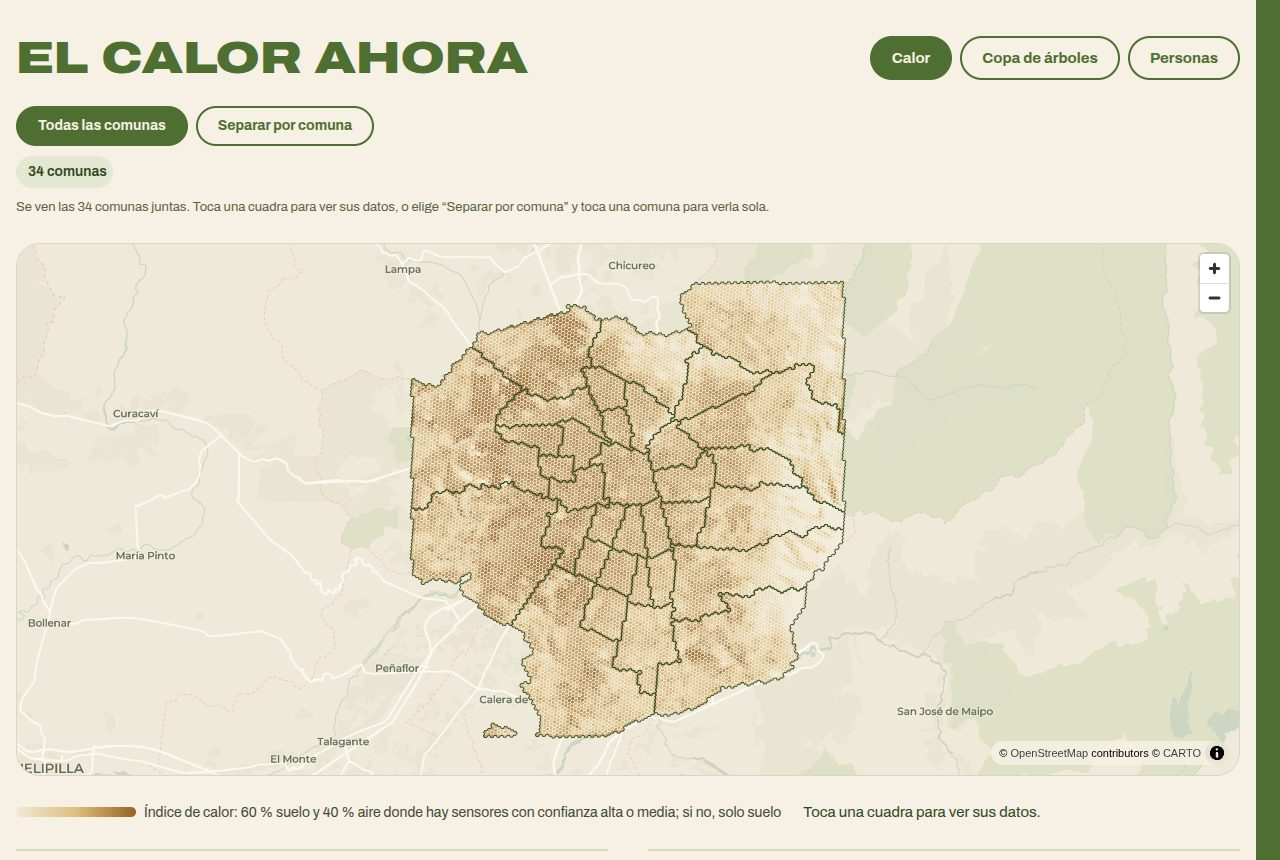
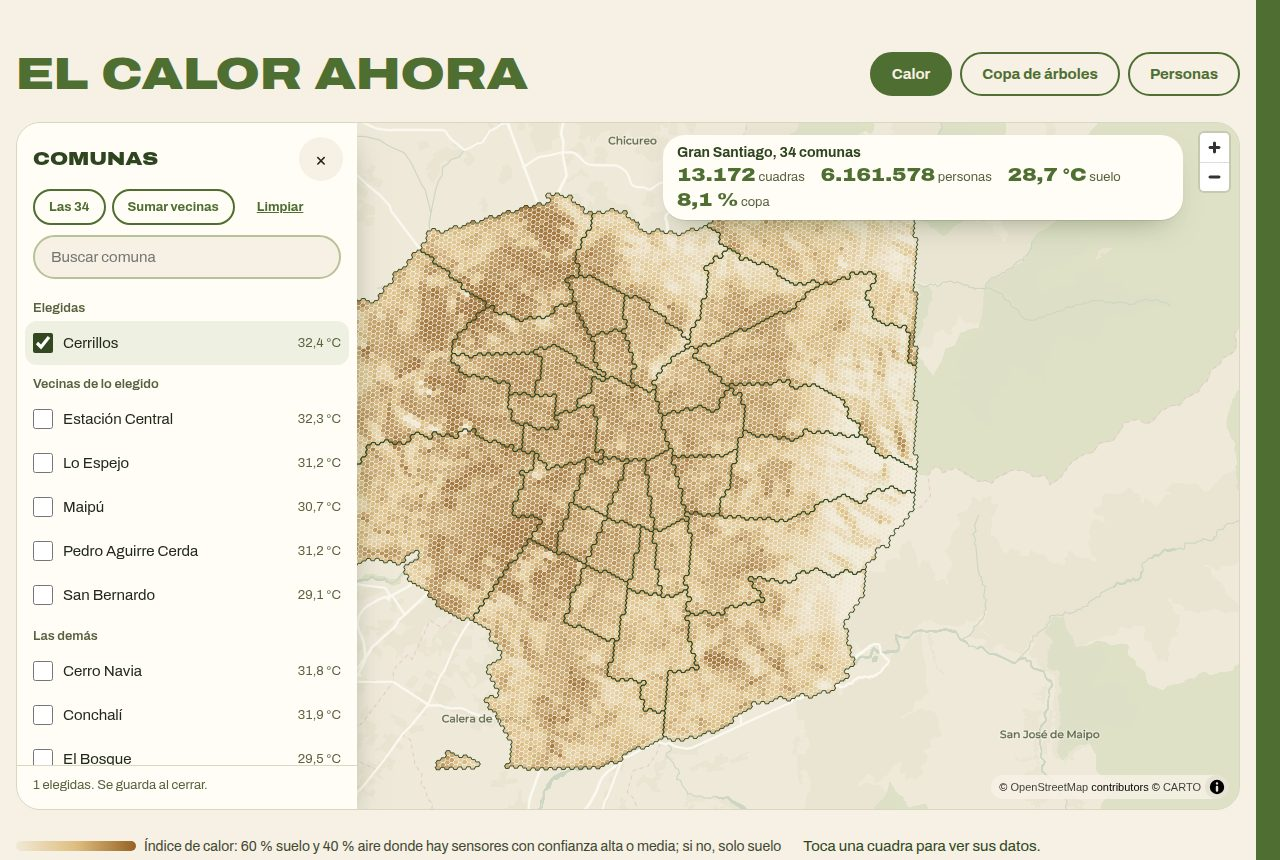
Filtro de comunas en cajon sobre cada mapa (opcion 3)
Un boton "Comunas" flota sobre el mapa y abre una lista lateral con las elegidas, sus
vecinas y las demas, con buscador, "Las 34", "Sumar vecinas" y "Limpiar"; se guarda al
cerrar. Lo elegido va a color, las vecinas tenues y el resto apagado, con un resumen chico
arriba a la derecha (cuadras, personas, suelo, copa). Mapas mas altos. Un area vacia se
abre con las 34, como mapa.html.

diff --git a/web/components/Pagina.tsx b/web/components/Pagina.tsx
@@ -4,6 +4,7 @@ import type { ExpressionSpecification, LngLatBoundsLike } from "maplibre-gl";
 import { cellToBoundary } from "h3-js";
 import MapaHex, { type Capa } from "./MapaHex";
 import Cifra from "./Cifra";
+import FiltroComunas from "./FiltroComunas";
 import { formato, useRevela, useVisible } from "./movimiento";
 import { historico, useTerreno, type Captura, type Estado, type InfoComunas } from "@/lib/terreno";
 
@@ -139,9 +140,8 @@ function Secciones({ info, estado, cambiar, ocupado, error, serie }: PropsSeccio
   const H = estado.hex;
   const sel = estado.seleccion;
   const todas = sel.length === info.comunas.length;
-  const [modo, setModo] = useState<"todas" | "comuna">(todas ? "todas" : "comuna");
-  const ultimaPorComuna = useRef<string[]>([]);
-  useEffect(() => { if (modo === "comuna" && sel.length && !todas) ultimaPorComuna.current = sel; }, [modo, sel, todas]);
+  // Un área vacía no tiene cuadras: como mapa.html, se abre con las 34.
+  useEffect(() => { if (!sel.length && !ocupado) cambiar({ comunas: info.comunas, distritos: [], zona: null }); }, [sel.length]); // eslint-disable-line react-hooks/exhaustive-deps
 
   // Polígonos de los hexágonos del área: los arma h3-js y se guardan entre áreas.
   const cache = useRef(new Map<string, number[][]>());
@@ -169,21 +169,22 @@ function Secciones({ info, estado, cambiar, ocupado, error, serie }: PropsSeccio
     type: "FeatureCollection",
     features: info.comunas.map((c) => ({
       type: "Feature",
-      properties: { c, est: modo === "todas" ? "todas" : sel.includes(c) ? "sel" : vecinas.has(c) ? "vec" : "otra" },
+      properties: { c, est: todas ? "todas" : sel.includes(c) ? "sel" : vecinas.has(c) ? "vec" : "otra" },
       geometry: { type: "MultiPolygon", coordinates: info.geo[c].map((poly) => poly.map((anillo) => anillo.map(([la, lo]) => [lo, la]))) },
     })),
-  }), [info, sel, vecinas, modo]);
+  }), [info, sel, vecinas, todas]);
+  // Tocar una comuna en el mapa: con todas a la vista la deja sola; una vecina se suma; otra empieza de nuevo.
   function tocarComuna(c: string) {
-    if (ocupado || sel.includes(c)) return;
-    cambiar({ comunas: modo === "todas" ? [c] : vecinas.has(c) ? [...sel, c] : [c], distritos: [], zona: null });
-    if (modo === "todas") setModo("comuna");
+    if (ocupado || (sel.includes(c) && !todas)) return;
+    cambiar({ comunas: todas ? [c] : vecinas.has(c) ? [...sel, c] : [c], distritos: [], zona: null });
   }
-  function cambiarModo(m: "todas" | "comuna") {
-    if (m === modo || ocupado) return;
-    setModo(m);
-    if (m === "todas") cambiar({ comunas: info.comunas, distritos: [], zona: null });
-    else if (ultimaPorComuna.current.length) cambiar({ comunas: ultimaPorComuna.current, distritos: [], zona: null });
-  }
+  // Suelo medio por comuna para la lista del cajón; se recuerda lo visto aunque luego se filtre.
+  const sueloComuna = useRef(new Map<string, number>());
+  useMemo(() => {
+    const por: Record<string, number[]> = {};
+    H.comuna.forEach((c, i) => { if (H.lst[i] != null) (por[c] ??= []).push(H.lst[i] as number); });
+    for (const [c, v] of Object.entries(por)) sueloComuna.current.set(c, media(v));
+  }, [H]);
 
   const capturasGeo = useMemo<GeoJSON.FeatureCollection>(() => ({
     type: "FeatureCollection",
@@ -209,26 +210,7 @@ function Secciones({ info, estado, cambiar, ocupado, error, serie }: PropsSeccio
   };
   const mapaComun = { comunas: comunasGeo, capturas: capturasGeo, recorridos: recorridosGeo, popupCaptura, alComuna: tocarComuna };
 
-  const barraArea = (
-    <div className="area">
-      <div className="grupo" role="group" aria-label="Área">
-        <button type="button" className="pill" style={{ minHeight: 40, fontSize: 14 }} aria-pressed={modo === "todas"} onClick={() => cambiarModo("todas")}>Todas las comunas</button>
-        <button type="button" className="pill" style={{ minHeight: 40, fontSize: 14 }} aria-pressed={modo === "comuna"} onClick={() => cambiarModo("comuna")}>Separar por comuna</button>
-      </div>
-      <div className="chips" aria-live="polite">
-        {modo === "todas" ? <span className="chip">{sel.length} comunas</span>
-          : sel.length ? sel.map((c) => (
-            <span key={c} className="chip">{c}<button type="button" aria-label={`Quitar ${c}`} disabled={ocupado}
-              onClick={() => cambiar({ comunas: sel.filter((x) => x !== c) })}>×</button></span>))
-            : <span className="nota">Toca una comuna en el mapa.</span>}
-        {ocupado && <span className="nota">Calculando…</span>}
-      </div>
-      <p className="nota">{modo === "todas"
-        ? "Se ven las 34 comunas juntas. Toca una cuadra para ver sus datos, o elige “Separar por comuna” y toca una comuna para verla sola."
-        : "Toca una comuna vecina (borde punteado) para sumarla, u otra para empezar ahí. El área es la misma en todo el mapa de la página."}</p>
-      {error && <p className="aviso" role="alert">{error}</p>}
-    </div>
-  );
+  const filtro = <FiltroComunas info={info} estado={estado} ocupado={ocupado} error={error} cambiar={cambiar} sueloComuna={sueloComuna.current} />;
 
   // ---- El calor ahora
   const [capa, setCapa] = useState("calor");
@@ -337,19 +319,18 @@ function Secciones({ info, estado, cambiar, ocupado, error, serie }: PropsSeccio
             {CAPAS_AHORA.map((c) => <button key={c.id} type="button" className="pill" aria-pressed={capa === c.id} onClick={() => setCapa(c.id)}>{NOMBRE_CAPA[c.id]}</button>)}
           </div>
         </div>
-        <div className="escalon" style={est(1)}>{barraArea}</div>
-        <div className="escalon" style={est(2)}>
+        <div className="escalon" style={est(1)}>
           <MapaHex {...mapaComun} datos={datosAhora} capas={CAPAS_AHORA} activa={capa} encuadre={encuadreArea} alElegir={setElegida}
-            etiqueta={`Mapa de ${NOMBRE_CAPA[capa].toLowerCase()} por cuadra. Toca una cuadra para ver sus datos o una comuna para elegirla.`} />
+            etiqueta={`Mapa de ${NOMBRE_CAPA[capa].toLowerCase()} por cuadra. Toca una cuadra para ver sus datos o una comuna para elegirla.`}>{filtro}</MapaHex>
         </div>
         <div className="leyenda">
           <span><i className="barra" style={{ background: LEYENDA[capa][0] }} />{LEYENDA[capa][1]}</span>
           <span className="detalle num" aria-live="polite">{det != null
             ? `${H.distrito[det]}${H.parque[det] ? ", parque" : ""}: suelo ${formato(H.lst[det] ?? 0, 1)} °C${H.vivo[det] != null ? `, aire ${formato(H.vivo[det] as number, 1)} °C` : ""}, copa ${formato(H.copa[det] ?? 0, 1)} %, ${formato(H.pob[det])} personas, urgencia ${formato(H.u[det] ?? 0, 3)}.`
             : "Toca una cuadra para ver sus datos."}</span>
-          {det != null && modo === "todas" && (
+          {det != null && todas && (
             <button type="button" className="pill" style={{ minHeight: 36, fontSize: 14 }} disabled={ocupado}
-              onClick={() => { setModo("comuna"); cambiar({ comunas: [H.comuna[det]], distritos: [], zona: null }); }}>Ver solo {H.comuna[det]}</button>
+              onClick={() => cambiar({ comunas: [H.comuna[det]], distritos: [], zona: null })}>Ver solo {H.comuna[det]}</button>
           )}
         </div>
         <div className="resumen">
@@ -371,7 +352,7 @@ function Secciones({ info, estado, cambiar, ocupado, error, serie }: PropsSeccio
               <ol>
                 {resumen.slice(0, 6).map(([c, v]) => (
                   <li key={c}>
-                    <button type="button" disabled={ocupado} onClick={() => { setModo("comuna"); cambiar({ comunas: [c], distritos: [], zona: null }); }}>
+                    <button type="button" disabled={ocupado} onClick={() => cambiar({ comunas: [c], distritos: [], zona: null })}>
                       <span>{c}</span><span className="num">{formato(v, 1)} °C</span>
                       <i style={{ width: `${(100 * (v - 25)) / (resumen[0][1] - 25)}%` }} />
                     </button>
@@ -386,7 +367,6 @@ function Secciones({ info, estado, cambiar, ocupado, error, serie }: PropsSeccio
 
       <Seccion id="planificar">
         <div className="b-cab escalon"><h2>Planificar</h2><p>Mueve los pesos y el presupuesto; el corredor se traza de parque a parque por las cuadras más urgentes del área elegida.</p></div>
-        <div className="escalon" style={est(1)}>{barraArea}</div>
         <div className="b-controles escalon" style={est(2)}>
           {([["calor", "Calor (suelo y aire)"], ["arbol", "Falta de árboles"], ["pers", "Personas cerca"]] as const).map(([k, nombre]) => (
             <div className="peso" key={k}>
@@ -402,7 +382,7 @@ function Secciones({ info, estado, cambiar, ocupado, error, serie }: PropsSeccio
         <div className="b-plan">
           <div className="izq escalon" style={est(3)}>
             <MapaHex {...mapaComun} datos={datosPlan} capas={CAPAS_PLAN} activa="urg" corredor={corredor} encuadre={encuadrePlan}
-              etiqueta="Corredor propuesto sobre la urgencia de cada cuadra" />
+              etiqueta="Corredor propuesto sobre la urgencia de cada cuadra">{filtro}</MapaHex>
             {enCorredor.length > 0 && (
               <button type="button" className="pill zoom-corredor" aria-pressed={cerca} onClick={() => setCerca(!cerca)}>
                 {cerca ? (todas ? "Ver las 34 comunas" : "Ver toda el área") : "Acercar al corredor"}
@@ -468,7 +448,7 @@ function Secciones({ info, estado, cambiar, ocupado, error, serie }: PropsSeccio
         </div>
         <div className="b-hist">
           <div className="izq escalon" style={est(2)}>
-            <MapaHex {...mapaComun} datos={datosHist} capas={CAPAS_HIST} activa="hist" encuadre={encuadreArea} etiqueta="Promedio del calor del suelo por cuadra en el rango elegido" />
+            <MapaHex {...mapaComun} datos={datosHist} capas={CAPAS_HIST} activa="hist" encuadre={encuadreArea} etiqueta="Promedio del calor del suelo por cuadra en el rango elegido">{filtro}</MapaHex>
             <div className="leyenda" style={{ marginTop: 10 }}><span><i className="barra" style={{ background: grad(OCRE) }} /><span className="num">Suelo medio de {formato(escalaHist[0], 1)} °C a {formato(escalaHist[1], 1)} °C</span></span></div>
           </div>
           <div className="cifras">

diff --git a/web/components/FiltroComunas.tsx b/web/components/FiltroComunas.tsx
@@ -1,0 +1,117 @@
+"use client";
+import { useEffect, useMemo, useRef, useState } from "react";
+import type { Cambio, Estado, InfoComunas } from "@/lib/terreno";
+import { formato } from "./movimiento";
+
+// Opción 3 del filtro: un solo botón "Comunas" sobre el mapa abre un cajón lateral con las elegidas,
+// sus vecinas y las demás. Se edita un borrador y se guarda al cerrar (una sola vuelta al servidor).
+// Arriba a la derecha queda un resumen chico del área.
+const sinTilde = (s: string) => s.normalize("NFD").replace(/[̀-ͯ]/g, "").toLowerCase();
+const porNombre = (a: string, b: string) => a.localeCompare(b, "es");
+
+function vecinasDe(sel: string[], vecinas: Record<string, string[]>) {
+  const v = new Set<string>();
+  for (const c of sel) for (const x of vecinas[c] ?? []) if (!sel.includes(x)) v.add(x);
+  return [...v].sort(porNombre);
+}
+
+export default function FiltroComunas({ info, estado, ocupado, error, cambiar, sueloComuna }: {
+  info: InfoComunas;
+  estado: Estado;
+  ocupado: boolean;
+  error: string | null;
+  cambiar: (c: Cambio) => void;
+  sueloComuna: Map<string, number>;
+}) {
+  const sel = estado.seleccion;
+  const total = info.comunas.length;
+  const todas = sel.length === total;
+  const [abierto, setAbierto] = useState(false);
+  const [borrador, setBorrador] = useState<string[]>(sel);
+  const [busca, setBusca] = useState("");
+  const boton = useRef<HTMLButtonElement>(null);
+  const buscador = useRef<HTMLInputElement>(null);
+
+  function abrir() {
+    setBorrador(sel);
+    setBusca("");
+    setAbierto(true);
+  }
+  function cerrar() {
+    setAbierto(false);
+    boton.current?.focus();
+    const nuevo = borrador.length ? borrador : info.comunas;   // sin comunas elegidas se ve todo el Gran Santiago
+    const igual = nuevo.length === sel.length && nuevo.every((c) => sel.includes(c));
+    if (!igual) cambiar({ comunas: [...nuevo].sort(porNombre), distritos: [], zona: null });
+  }
+  useEffect(() => { if (abierto) setTimeout(() => buscador.current?.focus(), 50); }, [abierto]);
+
+  const vec = useMemo(() => vecinasDe(borrador, info.vecinas), [borrador, info]);
+  const q = sinTilde(busca.trim());
+  const grupos: [string, string[]][] = [
+    ["Elegidas", [...borrador].sort(porNombre)],
+    ["Vecinas de lo elegido", vec],
+    ["Las demás", info.comunas.filter((c) => !borrador.includes(c) && !vec.includes(c)).sort(porNombre)],
+  ];
+  const alternar = (c: string) => setBorrador((b) => (b.includes(c) ? b.filter((x) => x !== c) : [...b, c]));
+
+  const H = estado.hex;
+  const resumen = useMemo(() => {
+    const lst = H.lst.filter((x): x is number => x != null), copa = H.copa.filter((x): x is number => x != null);
+    const med = (xs: number[]) => (xs.length ? xs.reduce((s, x) => s + x, 0) / xs.length : 0);
+    return { cuadras: H.h.length, personas: H.pob.reduce((s, x) => s + x, 0), suelo: med(lst), copa: med(copa) };
+  }, [H]);
+
+  return (
+    <>
+      <button ref={boton} type="button" className="flota abre" aria-expanded={abierto} onClick={abierto ? cerrar : abrir}>
+        <svg width="20" height="20" viewBox="0 0 24 24" aria-hidden="true"><path d="M4 6h16M7 12h10M10 18h4" stroke="currentColor" strokeWidth="2.2" strokeLinecap="round" /></svg>
+        Comunas <span className="cuenta num">{todas ? total : sel.length}</span>
+        {ocupado && <span className="nota" style={{ fontWeight: 500 }}>Calculando…</span>}
+      </button>
+
+      <div className="flota resumen-mapa num" aria-live="polite">
+        <span className="t">{todas ? `Gran Santiago, ${total} comunas` : sel.length <= 3 ? sel.join(", ") : `${sel.length} comunas`}</span>
+        <span><b>{resumen.cuadras.toLocaleString("es-CL")}</b> cuadras</span>
+        <span><b>{resumen.personas.toLocaleString("es-CL")}</b> personas</span>
+        <span><b>{formato(resumen.suelo, 1)} °C</b> suelo</span>
+        <span><b>{formato(resumen.copa, 1)} %</b> copa</span>
+        {error && <span className="aviso" role="alert" style={{ flexBasis: "100%" }}>{error}</span>}
+      </div>
+
+      {abierto && (
+        <aside className="cajon" aria-label="Elegir comunas" onKeyDown={(e) => { if (e.key === "Escape") cerrar(); }}>
+          <header>
+            <h2>Comunas</h2>
+            <button type="button" className="cierra" aria-label="Guardar y cerrar" onClick={cerrar}>×</button>
+          </header>
+          <div className="acciones">
+            <button type="button" className="mini" aria-pressed={borrador.length === total} onClick={() => setBorrador(info.comunas)}>Las {total}</button>
+            <button type="button" className="mini" disabled={!borrador.length || !vec.length} onClick={() => setBorrador([...borrador, ...vec])}>Sumar vecinas</button>
+            <button type="button" className="mini sola" disabled={!borrador.length} onClick={() => setBorrador([])}>Limpiar</button>
+          </div>
+          <input ref={buscador} type="search" placeholder="Buscar comuna" aria-label="Buscar comuna" value={busca} onChange={(e) => setBusca(e.target.value)} />
+          <div className="lista">
+            {grupos.map(([titulo, cs]) => {
+              const vis = cs.filter((c) => sinTilde(c).includes(q));
+              return vis.length ? (
+                <div key={titulo}>
+                  <h3>{titulo}</h3>
+                  {vis.map((c) => (
+                    <label key={c}>
+                      <input type="checkbox" checked={borrador.includes(c)} onChange={() => alternar(c)} />
+                      <span>{c}</span>
+                      <small className="num">{sueloComuna.has(c) ? `${formato(sueloComuna.get(c)!, 1)} °C` : ""}</small>
+                    </label>
+                  ))}
+                </div>
+              ) : null;
+            })}
+            {grupos.every(([, cs]) => !cs.some((c) => sinTilde(c).includes(q))) && <p className="nota" style={{ padding: 8 }}>Ninguna comuna se llama así.</p>}
+          </div>
+          <p className="nota pie">{borrador.length ? `${borrador.length} elegidas.` : "Sin comunas elegidas: se verá todo el Gran Santiago."} Se guarda al cerrar.</p>
+        </aside>
+      )}
+    </>
+  );
+}

diff --git a/web/app/globals.css b/web/app/globals.css
@@ -63,7 +63,7 @@ section[id], footer[id] { scroll-margin-top: 16px; }
 .b-cab { display: flex; flex-wrap: wrap; align-items: flex-end; justify-content: space-between; gap: 18px; }
 .b-cab p { margin: 0; max-width: 50ch; font-family: var(--f-it); font-style: italic; font-size: 20px; line-height: 1.4; color: var(--oliva-osc); }
 
-.mapa { position: relative; width: 100%; height: clamp(380px, 62vh, 620px); border-radius: 24px; overflow: hidden; background: #e9e3cf; border: 1px solid var(--salvia3); }
+.mapa { position: relative; width: 100%; height: clamp(460px, 80vh, 820px); border-radius: 24px; overflow: hidden; background: #e9e3cf; border: 1px solid var(--salvia3); }
 .mapa .maplibregl-ctrl-attrib { font-size: 11px; background: rgba(246, 241, 228, 0.85); }
 .mapa-carga { position: absolute; inset: 0; display: grid; place-items: center; font-size: 15px; color: var(--texto3); }
 
@@ -150,3 +150,34 @@ section[id], footer[id] { scroll-margin-top: 16px; }
 .terreno thead th { font-size: 13px; color: var(--texto3); }
 .mapa .maplibregl-popup-content { border-radius: 14px; background: var(--papel); }
 .zoom-corredor { align-self: flex-start; min-height: 40px; font-size: 14px; }
+
+/* Filtro de comunas (opción 3): botón y resumen flotando sobre el mapa, cajón lateral que se guarda al cerrar */
+.flota { position: absolute; z-index: 3; background: var(--papel); border-radius: 22px; box-shadow: 0 1px 0 rgba(47, 69, 32, 0.12), 0 14px 32px -18px rgba(47, 69, 32, 0.55); }
+.abre { left: 12px; top: 12px; min-height: 48px; padding: 0 18px 0 14px; display: inline-flex; align-items: center; gap: 10px; border: 0; font-weight: 700; font-size: 16px; color: var(--oliva-osc); cursor: pointer; }
+.abre .cuenta { min-width: 28px; height: 28px; padding: 0 8px; border-radius: 999px; background: var(--oliva); color: var(--crema2); display: inline-flex; align-items: center; justify-content: center; font-size: 14px; }
+.resumen-mapa { right: 56px; top: 12px; padding: 10px 14px; display: flex; flex-wrap: wrap; gap: 4px 16px; align-items: baseline; max-width: min(520px, calc(100% - 260px)); font-size: 13px; color: var(--texto3); }
+.resumen-mapa b { font-family: var(--f-display); font-weight: 900; font-stretch: 115%; font-size: 19px; color: var(--oliva); }
+.resumen-mapa .t { flex-basis: 100%; font-size: 14px; font-weight: 700; color: var(--oliva-osc); }
+.cajon { position: absolute; z-index: 4; left: 0; top: 0; bottom: 0; width: min(340px, 88%); background: var(--papel); box-shadow: 0 14px 32px -12px rgba(47, 69, 32, 0.55); display: flex; flex-direction: column; }
+@media (prefers-reduced-motion: no-preference) { .cajon { animation: cajon-entra 0.25s var(--ease-out); } }
+@keyframes cajon-entra { from { transform: translateX(-100%); } to { transform: none; } }
+.cajon header { display: flex; align-items: center; justify-content: space-between; padding: 14px 14px 8px 16px; }
+.cajon h2 { margin: 0; font-size: 18px; color: var(--oliva-osc); }
+.cajon .cierra { width: 44px; height: 44px; border-radius: 50%; border: 0; background: var(--crema2); font-size: 20px; cursor: pointer; color: var(--tinta); }
+.cajon .acciones { display: flex; flex-wrap: wrap; gap: 6px; padding: 0 16px 10px; }
+.cajon input[type="search"] { margin: 0 16px 10px; min-height: 44px; border-radius: 999px; border: 2px solid var(--salvia2); background: var(--crema2); padding: 0 16px; font-size: 15px; color: var(--tinta); }
+.cajon .lista { flex: 1; overflow: auto; padding: 0 8px 8px; }
+.cajon h3 { margin: 12px 8px 6px; font-size: 13px; color: var(--texto3); font-weight: 600; }
+.cajon label { display: grid; grid-template-columns: auto 1fr auto; align-items: center; gap: 10px; min-height: 44px; padding: 0 8px; border-radius: 12px; font-size: 15px; cursor: pointer; }
+.cajon label:hover { background: #eef1e1; }
+.cajon label input { width: 20px; height: 20px; accent-color: var(--oliva); margin: 0; }
+.cajon label small { color: var(--texto3); font-size: 13px; }
+.cajon .pie { padding: 10px 16px 14px; border-top: 1px solid var(--salvia3); }
+.mini { min-height: 36px; padding: 0 14px; border-radius: 999px; border: 2px solid var(--oliva); background: transparent; color: var(--oliva); font-weight: 700; font-size: 13px; cursor: pointer; white-space: nowrap; }
+.mini[aria-pressed="true"] { background: var(--oliva); color: var(--crema2); }
+.mini.sola { border-color: transparent; text-decoration: underline; }
+.mini:disabled { opacity: 0.4; cursor: default; }
+@media (max-width: 700px) {
+  .resumen-mapa { top: auto; right: 12px; left: 12px; bottom: 30px; max-width: none; }
+  .resumen-mapa b { font-size: 16px; }
+}

diff --git a/web/components/MapaHex.tsx b/web/components/MapaHex.tsx
@@ -34,7 +34,7 @@ function tenir(mapa: MapaML) {
 }
 
 export default function MapaHex({ datos, capas, activa, corredor, comunas, capturas, recorridos, popupCaptura,
-  encuadre, alElegir, alComuna, etiqueta }: {
+  encuadre, alElegir, alComuna, etiqueta, children }: {
   datos: GeoJSON.FeatureCollection;
   capas: Capa[];
   activa: string;
@@ -47,6 +47,7 @@ export default function MapaHex({ datos, capas, activa, corredor, comunas, captu
   alElegir?: (i: number | null) => void;
   alComuna?: (c: string) => void;
   etiqueta: string;
+  children?: React.ReactNode;                 // controles que flotan sobre el mapa
 }) {
   const [cont, visible] = useVisible<HTMLDivElement>();
   const nodo = useRef<HTMLDivElement>(null);
@@ -100,7 +101,11 @@ export default function MapaHex({ datos, capas, activa, corredor, comunas, captu
         nuevo.addSource("comunas", { type: "geojson", data: VACIO });
         nuevo.addLayer({
           id: "comunas-relleno", type: "fill", source: "comunas",
-          paint: { "fill-color": "#4F6E31", "fill-opacity": ["match", ["get", "est"], "vec", 0.1, "otra", 0.05, 0.001] },
+          // Lo elegido a color (sus cuadras), las vecinas tenues y el resto apagado.
+          paint: {
+            "fill-color": ["match", ["get", "est"], "otra", "#EFE9DA", "#4F6E31"],
+            "fill-opacity": ["match", ["get", "est"], "vec", 0.14, "otra", 0.55, 0.001],
+          },
         });
         nuevo.addLayer({
           id: "comunas-linea", type: "line", source: "comunas", filter: ["!=", ["get", "est"], "vec"],
@@ -215,6 +220,7 @@ export default function MapaHex({ datos, capas, activa, corredor, comunas, captu
     <div ref={cont} className="mapa" role="region" aria-label={etiqueta}>
       <div ref={nodo} style={{ position: "absolute", inset: 0 }} />
       {!listo && <div className="mapa-carga" aria-hidden="true">Cargando mapa…</div>}
+      {children}
     </div>
   );
 }
